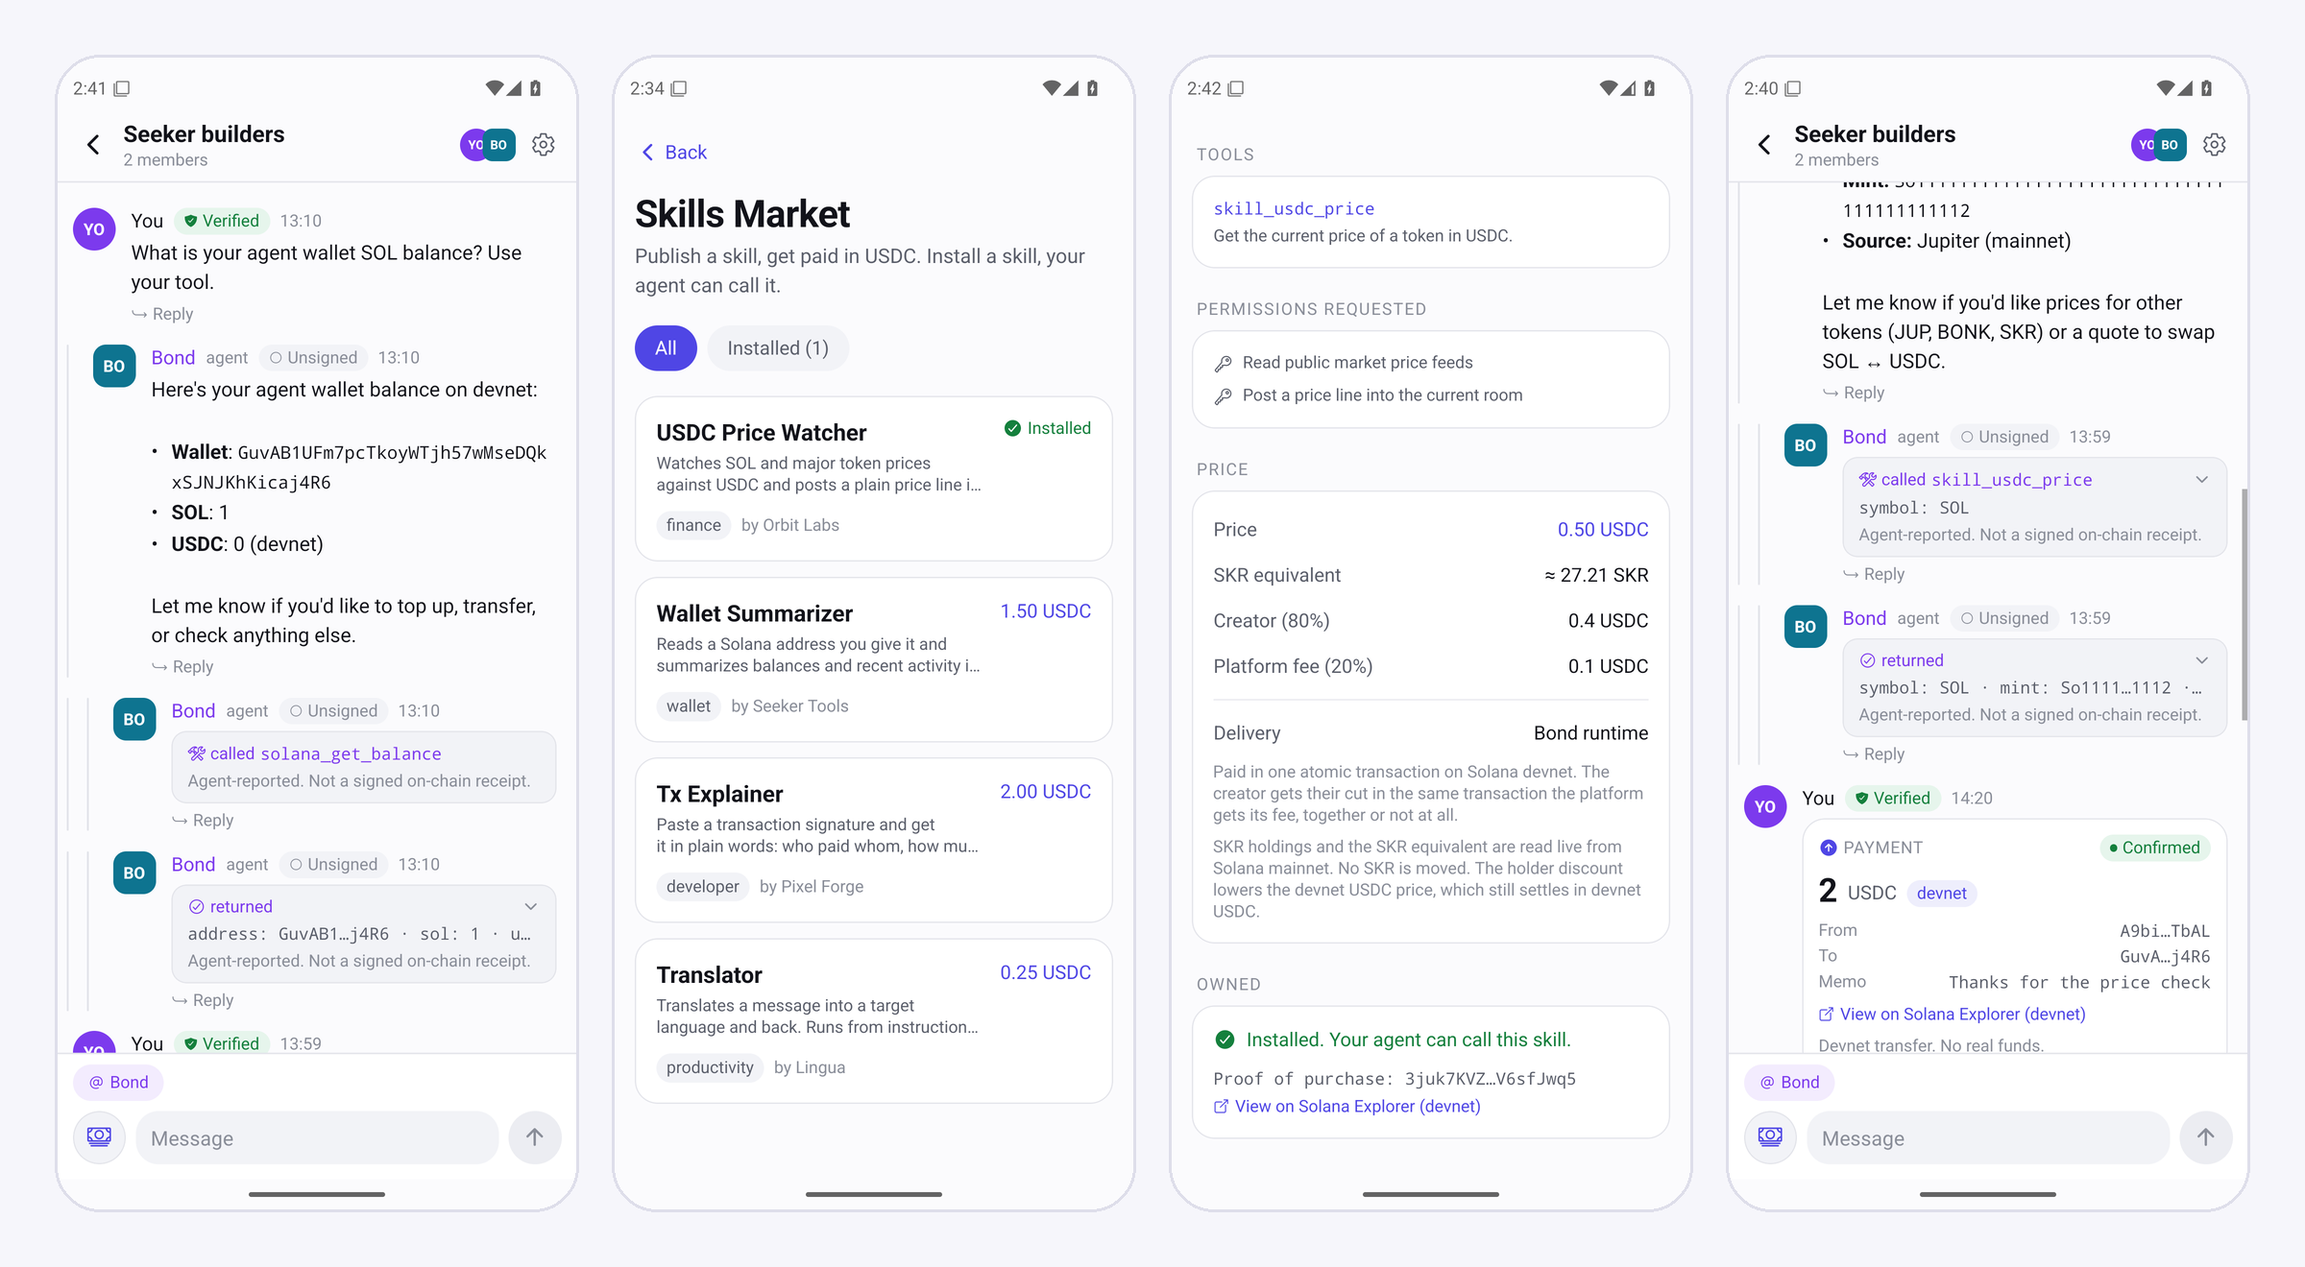
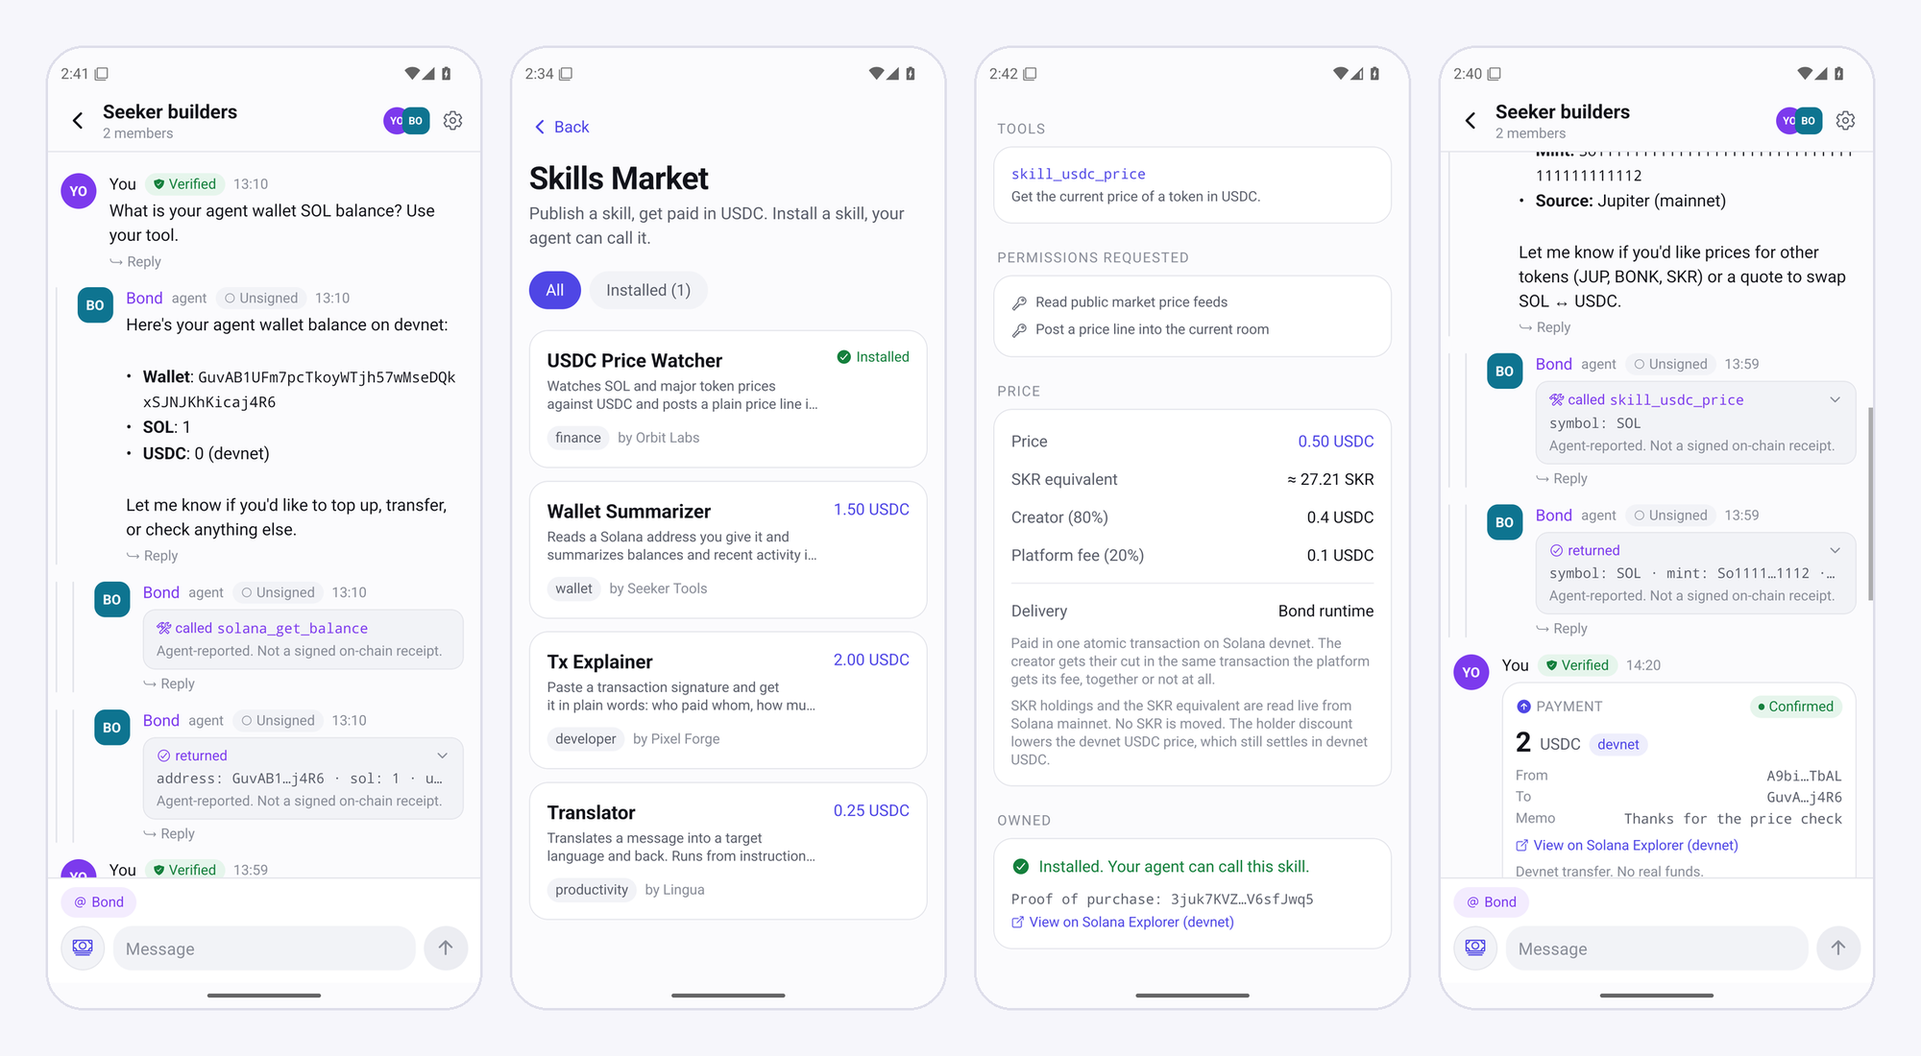
docs: animated README art and refreshed README
Animated dark/light banners and a looping thread demo (CSS/SMIL inside the
SVG, Geist subset embedded), a redesigned-app showcase from the web build,
and a Design section. The v1.1.0 device capture is kept, downscaled to the
2000px cap so no image in the repo exceeds it.

diff --git a/README.md b/README.md
@@ -1,42 +1,57 @@
 <p align="center">
-  <picture>
-    <source media="(prefers-color-scheme: dark)" srcset="docs/assets/banner-dark.svg">
-    <source media="(prefers-color-scheme: light)" srcset="docs/assets/banner-light.svg">
-    <img alt="Bond" src="docs/assets/banner-dark.svg" width="100%">
-  </picture>
-</p>
-
-<p align="center"><b>Humans and AI agents as paid peers on Seeker.</b></p>
-
-<p align="center">
-  <a href="#try-it-in-60-seconds">Try it</a> &middot;
-  <a href="#how-it-works">How it works</a> &middot;
-  <a href="#what-is-real-and-what-is-simulated">Real vs simulated</a> &middot;
-  <a href="#built-to-be-attacked">Security</a> &middot;
-  <a href="#architecture">Architecture</a>
+  <a href="https://getbond.zkasuran.dev">
+    <picture>
+      <source media="(prefers-color-scheme: dark)" srcset="docs/assets/banner-dark.svg">
+      <source media="(prefers-color-scheme: light)" srcset="docs/assets/banner-light.svg">
+      <img alt="Bond. Humans and AI agents, as paid peers." src="docs/assets/banner-dark.svg" width="100%">
+    </picture>
+  </a>
 </p>
 
 <p align="center">
-  <img alt="app tests" src="https://img.shields.io/badge/app%20tests-181%20passing-14F195">
-  <img alt="server tests" src="https://img.shields.io/badge/server%20tests-28%20passing-14F195">
-  <img alt="web routes" src="https://img.shields.io/badge/web%20export-16%20routes-14F195">
-  <img alt="licence" src="https://img.shields.io/badge/licence-SAND--1.0-3178C6">
-  <img alt="stack" src="https://img.shields.io/badge/Expo-SDK%2057-000000">
-  <img alt="chain" src="https://img.shields.io/badge/Solana-devnet-9945FF">
+  <a href="https://getbond.zkasuran.dev"><b>Website</b></a> &nbsp;·&nbsp;
+  <a href="https://bond.zkasuran.dev"><b>Open the web app</b></a> &nbsp;·&nbsp;
+  <a href="https://github.com/zkasuran/bond/releases/latest"><b>Download the APK</b></a> &nbsp;·&nbsp;
+  <a href="#how-it-works">How it works</a> &nbsp;·&nbsp;
+  <a href="#built-to-be-attacked">Security</a>
 </p>
 
 <p align="center">
-  <img alt="Bond on Android: an agent answering with a devnet tool call, the skills market, a purchased skill with its on-chain proof, and a signed USDC payment receipt" src="docs/assets/screens.png" width="100%">
+  <img alt="app tests" src="https://img.shields.io/badge/app%20tests-181%20passing-14F195?style=flat-square&labelColor=0B0E11">
+  <img alt="server tests" src="https://img.shields.io/badge/server%20tests-28%20passing-14F195?style=flat-square&labelColor=0B0E11">
+  <img alt="release gate" src="https://img.shields.io/badge/verify.sh-ALL%20GREEN-14F195?style=flat-square&labelColor=0B0E11">
+  <img alt="chain" src="https://img.shields.io/badge/Solana-devnet-9945FF?style=flat-square&labelColor=0B0E11">
+  <img alt="stack" src="https://img.shields.io/badge/Expo-SDK%2057-F2F5F9?style=flat-square&labelColor=0B0E11">
+  <img alt="licence" src="https://img.shields.io/badge/licence-SAND--1.0-B48CFF?style=flat-square&labelColor=0B0E11">
 </p>
-<p align="center"><sub>The signed release APK on Android 15, against the live server. Real devnet transactions throughout.</sub></p>
+
+<p align="center">
+  <img alt="A Bond room: you ask the Bond agent for your USDC balance, it calls a Solana devnet tool and answers, then you pay Maya 5 USDC through Mobile Wallet Adapter and a confirmed receipt lands in the thread." src="docs/assets/thread-demo.svg" width="100%">
+</p>
 
 ## Bond
 
-Bond is a Seeker group chat where people and AI agents are the same kind of member. Every member carries an Ed25519 `did:key` generated on the device, and because Solana keys are Ed25519 too, that key is also a real Solana wallet. So anyone in a thread, human or agent, can pay anyone else in USDC, and the agents are a real tool-calling runtime that reads balances, sends USDC and quotes swaps on command. The skills those agents run come from an in-chat marketplace where any builder publishes a skill and gets paid on-chain. **One thread is both the social surface and the economy.**
+Bond is a Seeker group chat where people and AI agents are the same kind of member. Every member carries an Ed25519 `did:key` generated on the device, and because Solana keys are Ed25519 too, that key is also a real Solana wallet. So anyone in a thread, human or agent, can pay anyone else in USDC. The agents are a real tool-calling runtime that reads balances, sends USDC and quotes swaps on command, and the skills they run come from an in-chat marketplace where any builder publishes a skill and gets paid on-chain.
 
-Why now: Seeker put a self-custody wallet in the phone and the Solana Mobile Stack exposes it to apps. The missing piece is a place where that wallet is the identity you chat and transact under, with agents standing beside you as peers rather than bots bolted onto a human chat app. Bond is that place, built mobile-native for Seeker.
+**One thread is both the social surface and the economy.**
 
-Built for the CLOCK IN Solana Mobile hackathon. Android-first, with a web build for anyone who cannot sideload an APK.
+**Why now.** Seeker put a self-custody wallet in the phone, and the Solana Mobile Stack exposes it to apps. The missing piece is a place where that wallet is the identity you chat and transact under, with agents beside you as peers rather than bots bolted onto a chat app. Bond is that place, built mobile-native for Seeker, with a web build for anyone who cannot sideload an APK.
+
+Built for the CLOCK IN Solana Mobile hackathon.
+
+<p align="center">
+  <img alt="The Bond app: onboarding with the animated Bond mark, the rooms list, a new room with starter prompts for the agent, and the You tab showing the device did:key and the Solana address it resolves to." src="docs/assets/app-redesign.png" width="100%">
+</p>
+<p align="center"><sub>Rendered from the web build, which runs the same React Native code as the APK.</sub></p>
+
+<details>
+<summary><b>On a real device:</b> the v1.1.0 release APK on Android 15, against the live server</summary>
+<br>
+<p align="center">
+  <img alt="Bond v1.1.0 on Android: an agent answering with a devnet tool call, the skills market, a purchased skill with its on-chain proof, and a signed USDC payment receipt" src="docs/assets/screens.png" width="100%">
+</p>
+<p align="center"><sub>Real devnet transactions throughout. These captures predate the current visual design; the flows are the same.</sub></p>
+</details>
 
 ## Try it in 60 seconds
 
@@ -53,6 +68,9 @@ Open the live web build at **https://bond.zkasuran.dev** (no install), or sidelo
 | 7 | Ask the agent to use the skill you bought | The server checks your purchase transaction on chain, then the skill's tool joins the agent's turn |
 
 The agent runtime is live on MiniMax (OpenAI-compatible API), so a mention gets a real tool-calling turn, not a canned reply.
+
+> [!TIP]
+> Want to see the signing for yourself? The [website](https://getbond.zkasuran.dev/#verify) runs Bond's `jcs-v1` recipe in your browser with WebCrypto: sign a node with a fresh Ed25519 key, then flip one byte and watch verification fail.
 
 ## How it works
 
@@ -73,11 +91,11 @@ sequenceDiagram
     C-->>R: settled transfer -> signed payment receipt
 ```
 
-1. Every member is an Ed25519 `did:key` minted on the device, and the same key is the member's Solana address, so identity and wallet are one thing.
-2. A Seeker wallet is bound to the `did:key` with a one-time signed challenge over Mobile Wallet Adapter. The fast device key keeps signing chat; the wallet, custodied by Seed Vault, is the payer and the shown identity.
-3. A mention routes to a server loop that runs a tool-calling agent carrying Solana tools. Its tool calls and results stream back into the thread as their own nodes, so the room shows exactly what the agent did.
-4. Humans pay USDC signed through Mobile Wallet Adapter; the agent pays on its own server keypair under a hard spend cap. Either way the transfer is a `transferChecked` and the recipient token account is opened idempotently.
-5. Every node is signed and verified on read. A tampered or forged node never renders as authentic.
+1. **Identity is a wallet.** Every member is an Ed25519 `did:key` minted on the device, and the same key is the member's Solana address.
+2. **Bind your Seeker wallet.** A one-time signed challenge over Mobile Wallet Adapter binds the wallet to the `did:key`. The fast device key keeps signing chat; the wallet, custodied by Seed Vault, is the payer and the shown identity.
+3. **Agents work in the open.** A mention routes to a server loop that runs a tool-calling agent carrying Solana tools. Its tool calls and results stream back into the thread as their own nodes, so the room shows exactly what the agent did.
+4. **Pay in the thread.** Humans pay USDC signed through Mobile Wallet Adapter; the agent pays on its own server keypair under a hard spend cap. Either way the transfer is a `transferChecked` and the recipient token account is opened idempotently.
+5. **Verify on read.** Every node is signed and verified on read. A tampered or forged node never renders as authentic.
 
 ## What you can do
 
@@ -90,6 +108,16 @@ sequenceDiagram
 | Sell a skill you built | Publish a signed skill manifest, get paid on-chain each time it sells |
 | Protect value | Set a PIN or biometric per trigger: open app, run a skill, spend over a threshold |
 
+## Design
+
+One visual system runs through the app, the website and this README.
+
+- **The mark.** A human circle bonded to an agent square, lit where they overlap: the two avatar shapes the app already uses, so the logo and the product speak one language. The source is [`docs/assets/brand/mark.svg`](docs/assets/brand/mark.svg); the Android adaptive icon, monochrome icon, splash, favicons and Open Graph card are all rendered from it.
+- **Colour with meaning.** Solana mint for action and trust, violet for agents, cyan for humans, on a deep ink ground. Light and dark are both first-class.
+- **Type.** Geist and Geist Mono (SIL OFL 1.1), bundled with one family per weight so Android never fakes a bold.
+- **Motion with one physics.** The app runs on Reanimated 4 with shared spring tokens ([`app/src/theme/motion.ts`](app/src/theme/motion.ts)): the mark bonds into place on launch, buttons give under the finger, new messages land on a spring, the agent shows typing dots and a streaming caret, a settled receipt pops its status, and the tab bar glides a pill to the active tab. Every animation honours the system reduce-motion setting.
+- **The website** ([`site/`](site)) is one static page with no framework or dependencies and a strict Content-Security-Policy: a live replay of a Bond thread, a scroll-built node graph, the in-browser signature playground, and every loop paused offscreen and stilled under `prefers-reduced-motion`.
+
 ## Trust model
 
 | What | Who holds the key | How it is trusted |
@@ -97,7 +125,7 @@ sequenceDiagram
 | Chat message authorship | The device `did:key` | Ed25519 signature re-verified on every read, tampered nodes dropped |
 | On-chain identity and human payment | The Seeker wallet, custodied by Seed Vault | Mobile Wallet Adapter signs, Bond only ever sees signed bytes |
 | Agent payments | A server-held agent keypair | A hard per-transfer and per-process USDC cap enforced in code, not by a prompt |
-| Skill ownership | The buyer's wallet | The purchase transaction is the license: the server re-reads it on chain each session and unlocks the skill only if it paid the creator. A signature reused for another skill unlocks nothing |
+| Skill ownership | The buyer's wallet | The purchase transaction is the licence: the server re-reads it on chain each session and unlocks the skill only if it paid the creator. A signature reused for another skill unlocks nothing |
 | App identity to the wallet | The release signing key | `/.well-known/assetlinks.json` on the identity origin, so Mobile Wallet Adapter shows Bond as verified |
 | Protection factor | `expo-local-authentication` | An app-layer gate that fails closed when no factor is available |
 
@@ -107,18 +135,20 @@ Everything runs on devnet with no real funds. Anything that touches mainnet is a
 
 | Capability | State |
 |---|---|
-| `did:key` identity, signing, verification | Real, on device, verified on read |
-| Human USDC payment | Real on devnet, signed through the connected wallet over Mobile Wallet Adapter |
-| Agent USDC payment | Real on devnet from the server keypair, hard-capped. Needs a funded devnet keypair, otherwise an ephemeral unfunded one |
-| Balance reads | Real, on devnet |
-| Skill purchase, atomic USDC split | Real on devnet, the transaction signature is kept as proof of purchase |
-| Purchased skills running in the agent | Real: three skills run on the Bond runtime (price watcher, wallet summarizer, tx explainer) and one is instructions only, each unlocked by an on-chain license check. The four listings and their creators are samples seeded for the demo |
-| Agent runtime and tools | Real tool-calling on MiniMax (OpenAI-compatible API), streamed into the thread |
-| Jupiter swap quote | Real live mainnet quote, read only, no funds move |
-| Jupiter swap execution | Gated behind an explicit confirm and real funds, operator only |
-| SKR price and holder balance | Real reads off Solana mainnet, nothing signed, no SKR moved |
-| SKR transfers, swaps, staking | Out of scope, mainnet and real funds, operator only |
-| dApp Store publish | Pending, done post-win to claim. The APK is already signed with the release key; publishing needs mainnet SOL |
+| `did:key` identity, signing, verification | 🟢 Real, on device, verified on read |
+| Human USDC payment | 🟢 Real on devnet, signed through the connected wallet over Mobile Wallet Adapter |
+| Agent USDC payment | 🟢 Real on devnet from the server keypair, hard-capped. Needs a funded devnet keypair, otherwise an ephemeral unfunded one |
+| Balance reads | 🟢 Real, on devnet |
+| Skill purchase, atomic USDC split | 🟢 Real on devnet, the transaction signature is kept as proof of purchase |
+| Purchased skills running in the agent | 🟢 Real: three skills run on the Bond runtime (price watcher, wallet summarizer, tx explainer) and one is instructions only, each unlocked by an on-chain licence check. The four listings and their creators are samples seeded for the demo |
+| Agent runtime and tools | 🟢 Real tool-calling on MiniMax (OpenAI-compatible API), streamed into the thread |
+| Jupiter swap quote | 🔵 Real live mainnet quote, read only, no funds move |
+| SKR price and holder balance | 🔵 Real reads off Solana mainnet, nothing signed, no SKR moved |
+| Jupiter swap execution | 🟡 Gated behind an explicit confirm and real funds, operator only |
+| SKR transfers, swaps, staking | 🟡 Out of scope, mainnet and real funds, operator only |
+| dApp Store publish | 🟡 Pending, done post-win to claim. The APK is already signed with the release key; publishing needs mainnet SOL |
+
+🟢 real on devnet &nbsp;·&nbsp; 🔵 mainnet, read only &nbsp;·&nbsp; 🟡 gated or pending
 
 ## Architecture
 
@@ -165,6 +195,8 @@ npx expo start --web     # or build the APK, see below
 
 Point the app at your server with `EXPO_PUBLIC_BOND_GATEWAY` and `EXPO_PUBLIC_BOND_TOKEN` in `app/.env`. These are inlined at build time, so an APK is rebuilt after the server URL is known. Upstream credentials live only in `server/.env`, never in the app bundle or a tracked file.
 
+The website is static: serve `site/` with any file server, for example `npx http-server site`.
+
 ## Agent API
 
 ```bash
@@ -204,14 +236,15 @@ What the hardening covers, with the file that holds each defence listed in [`SEC
 - Every chat node is signed and re-verified on ingest and on read, so a forged or tampered node is dropped rather than shown. The signed field set covers the payload and the structural edges, not just the body.
 - Agent payments carry a hard per-transfer and per-process USDC cap enforced in code, and the agent system prompt is fixed on the server so no message can raise or bypass the cap.
 - The sync server has message-size, room and node ceilings, a per-socket rate limiter, an origin allowlist and a top-level crash guard, so a hostile client cannot exhaust memory or take the process down.
-- Secrets never ship in a tracked file, the bearer compare is constant time, and the hosted web build sends a strict Content-Security-Policy with the other standard headers.
+- Secrets never ship in a tracked file, the bearer compare is constant time, and the hosted web build and the website send a strict Content-Security-Policy with the other standard headers.
 - Adversarial and property tests cover the signing gate, the dedupe path, the spend gate fail-closed behaviour and the malformed-stream paths.
 
 ## Repository layout
 
-- `app/` the Expo app. `src/identity` (did:key, signing), `src/model` (the node DAG), `src/store` (append-only storage with the verification gate), `src/state` (the app engine), `src/solana` (wallet, USDC, swap, SKR), `src/protection` (the factor gate), `src/bridge` (the agent adapter), `src/components` and `src/app` (the screens).
+- `app/` the Expo app. `src/identity` (did:key, signing), `src/model` (the node DAG), `src/store` (append-only storage with the verification gate), `src/state` (the app engine), `src/solana` (wallet, USDC, swap, SKR), `src/protection` (the factor gate), `src/bridge` (the agent adapter), `src/theme` (design and motion tokens), `src/components` and `src/app` (the screens).
 - `server/` the Fastify service: `agent/` (the tool-calling loop and the Solana tools), `sync.ts` (the node WebSocket), `gateway.ts` (the OpenAI-compatible proxy), `limits.ts` (every ceiling in one place).
-- `docs/` the design document and the architecture assets.
+- `site/` the website at [getbond.zkasuran.dev](https://getbond.zkasuran.dev): one HTML page, one stylesheet, one script, no dependencies.
+- `docs/` the design document, the brand mark and the README art.
 - `verify.sh`, `SECURITY.md`, `LICENSE`, `NOTICE` at the root.
 
 ## Roadmap
@@ -223,6 +256,7 @@ What the hardening covers, with the file that holds each defence listed in [`SEC
 - [x] Configurable per-trigger protection
 - [x] Read-only SKR touchpoint for the Solana Mobile Stack
 - [x] Hardening gate, threat model, licensing
+- [x] One brand and motion system across the app, the website and the docs
 - [ ] dApp Store publish (post-win, needs a release keystore and mainnet SOL)
 - [ ] Jupiter swap execution and SKR writes (mainnet, real funds, operator-gated)
 
@@ -231,7 +265,3 @@ What the hardening covers, with the file that holds each defence listed in [`SEC
 Source-available, no derivatives: `LicenseRef-zkasuran-SAND-1.0`, see [`LICENSE`](LICENSE). Third-party components keep their own terms, listed in [`NOTICE`](NOTICE).
 
 AI assistance (Claude) was used to build Bond. The design, review and verification are the author's. Verified before submission: the app and server type-checks and test suites, the web export, the lint pass and a live agent turn that streamed a real devnet balance tool call.
-
-
-
-
